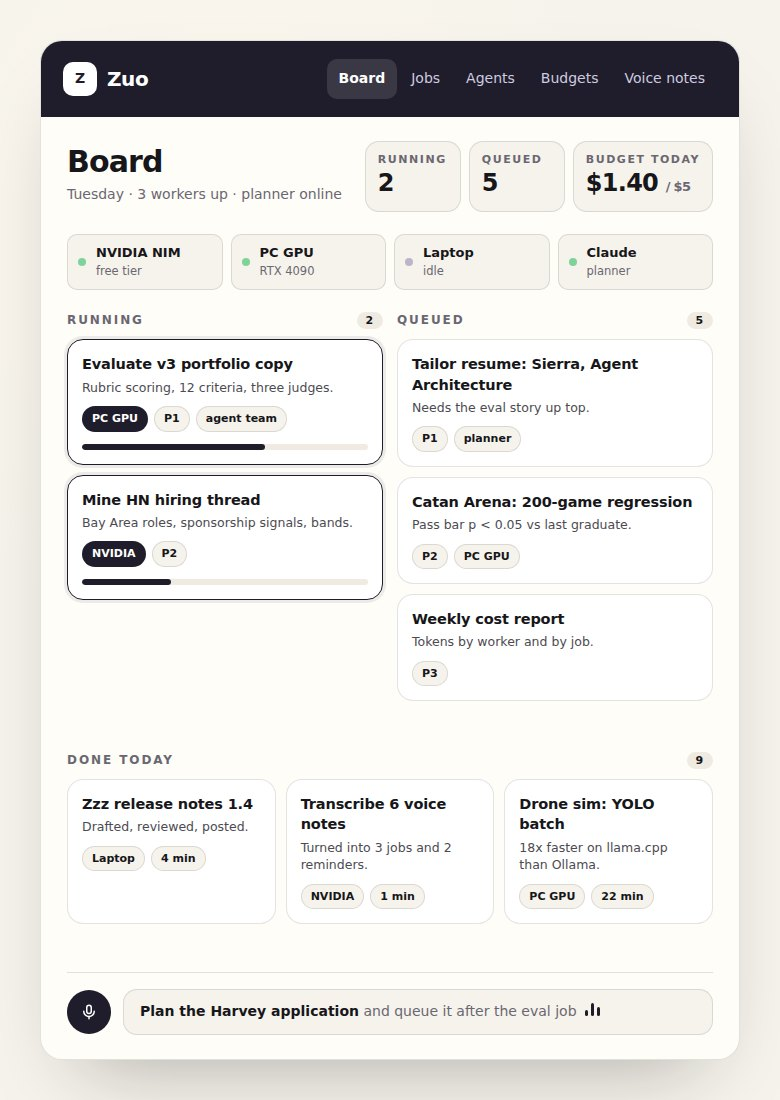
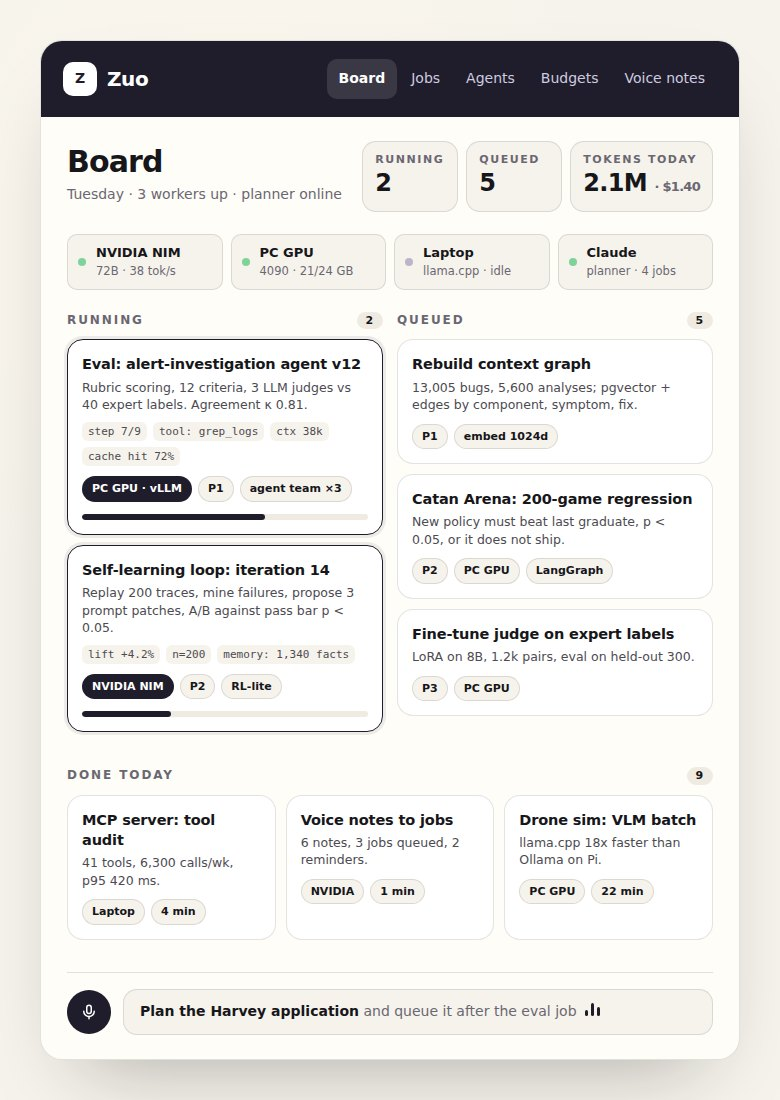
v3: technical Zuo cover, Full story links open the v2 project pages by absolute URL
Claude-Session: https://claude.ai/code/session_01GqG3SsZj1fzZkCJPKknjkh

diff --git a/v3/index.html b/v3/index.html
@@ -424,7 +424,7 @@ var P=[
 {id:'fetch',t:'Fetch Recipes',k:'iOS · 2022',g:'earlier',tag:'A Swift recipe app over TheMealDB.',img:'img/c-fetch.jpg'}];
 var GROUPS=[['all','All'],['ai','AI & agents'],['apps','Apps'],['research','Research'],['earlier','Earlier']];
 var acc=$('#acc'),wf=$('#wf'),cur='all';
-function renderAcc(){var list=P.filter(function(p){return cur==='all'?['ai','apps','research'].indexOf(p.g)>-1:p.g===cur});acc.innerHTML=list.map(function(p,i){return '<div class="item'+(i===0?' open':'')+'" data-id="'+p.id+'"><div class="vt"><small>'+String(i+1).padStart(2,'0')+'</small><b>'+p.t+'</b><span class="plus">+</span></div><div class="body"><img src="'+p.img+'" alt="'+p.t+'" loading="lazy"><div class="txt"><div class="meta">'+p.k+'</div><h3>'+p.t+'</h3><p>'+p.tag+'</p><div><a class="btn" href="../v2/#portfolio" data-more>Full story ↗</a></div></div></div></div>'}).join('');
+function renderAcc(){var list=P.filter(function(p){return cur==='all'?['ai','apps','research'].indexOf(p.g)>-1:p.g===cur});acc.innerHTML=list.map(function(p,i){return '<div class="item'+(i===0?' open':'')+'" data-id="'+p.id+'"><div class="vt"><small>'+String(i+1).padStart(2,'0')+'</small><b>'+p.t+'</b><span class="plus">+</span></div><div class="body"><img src="'+p.img+'" alt="'+p.t+'" loading="lazy"><div class="txt"><div class="meta">'+p.k+'</div><h3>'+p.t+'</h3><p>'+p.tag+'</p><div><a class="btn" href="https://fluff18.github.io/v2/#p-'+p.id+'" target="_blank" rel="noopener" data-more>Full story ↗</a></div></div></div></div>'}).join('');
  $$('.item',acc).forEach(function(it){it.addEventListener('click',function(e){if(e.target.closest('[data-more]'))return;$$('.item',acc).forEach(function(x){x.classList.toggle('open',x===it)})})});restagger(acc)}
 GROUPS.forEach(function(g){var b=document.createElement('button');b.className='btn'+(g[0]==='all'?' dark':'');b.textContent=g[1];b.dataset.g=g[0];b.addEventListener('click',function(){cur=g[0];$$('button',wf).forEach(function(x){x.classList.toggle('dark',x.dataset.g===cur)});renderAcc()});wf.appendChild(b)});
 renderAcc();
